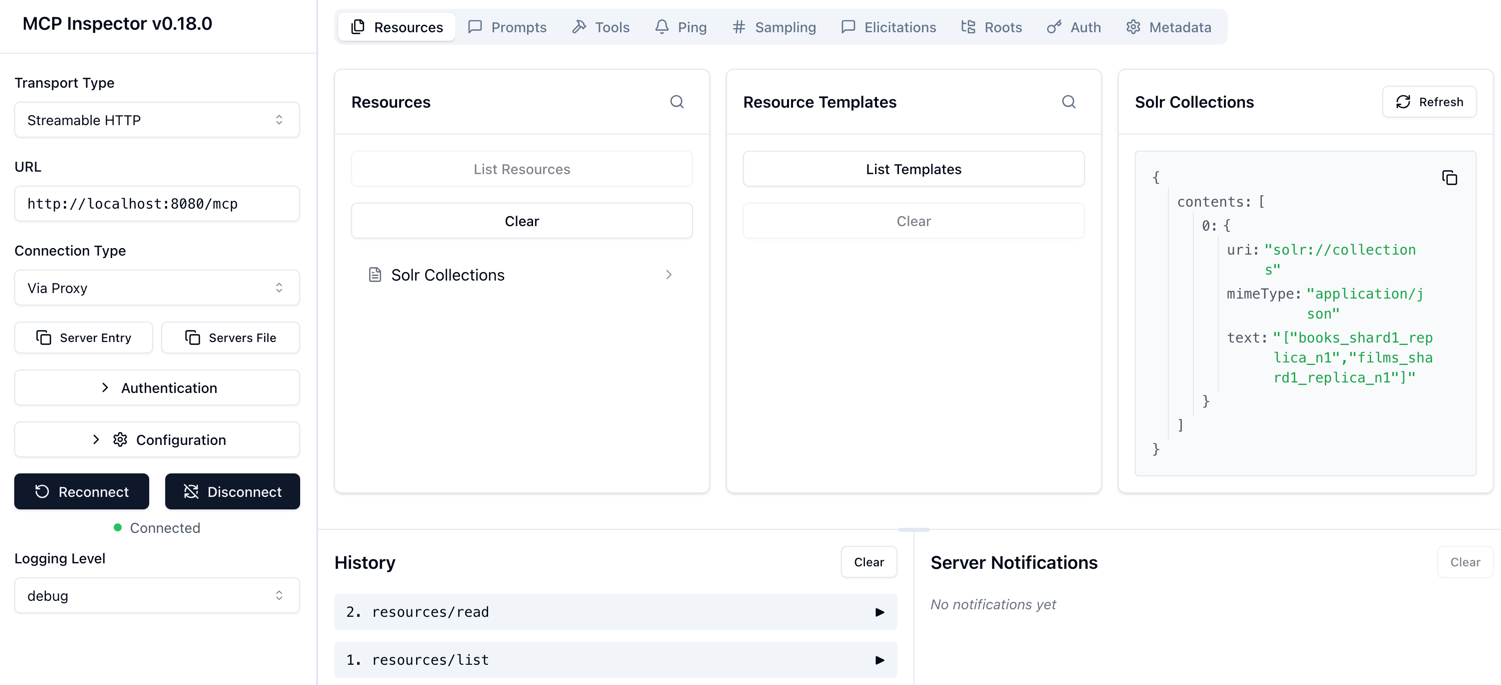
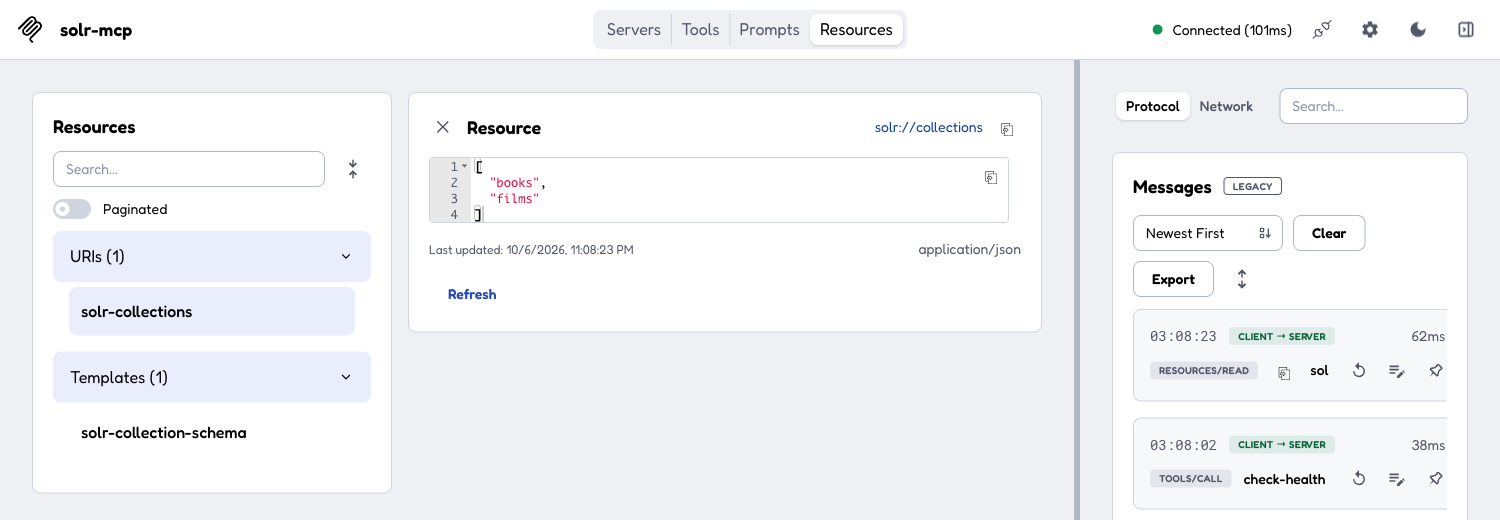
docs: refresh MCP Inspector screenshots and show them in the README
The screenshots in images/ predate the kebab-case tool rename and the
Inspector v2 UI, and none were referenced since the README was slimmed
in #151. Retake the six Inspector shots against the current server
(Inspector v2.9.0, films sample data, the repo's Keycloak realm), add
one showing where the bearer token goes, and embed them in a new
Screenshots section of the README.

diff --git a/README.md b/README.md
@@ -145,6 +145,45 @@ The server implements MCP argument autocompletion, so clients can suggest valid 
 
 Suggestions are matched case-insensitively by prefix and capped per request.
 
+## Screenshots
+
+**Claude Desktop (STDIO)** — answering a question about the `films` collection with the server's tools:
+
+![Claude Desktop calling Solr MCP tools over STDIO](images/claude-stdio.png)
+
+<details>
+<summary><b>MCP Inspector</b> — STDIO, HTTP, OAuth2, resources and completions</summary>
+
+**STDIO** — the Inspector launches the server with `java -jar`:
+
+![MCP Inspector connected to the server over STDIO](images/mcp-inspector-stdio.png)
+
+**HTTP** — `check-health` on `films` over Streamable HTTP at `http://localhost:8080/mcp`:
+
+![MCP Inspector calling check-health over HTTP](images/mcp-inspector-http.png)
+
+**HTTP with OAuth2** — the bearer token goes in the server's **Settings → Custom Headers**:
+
+![MCP Inspector custom Authorization header](images/mcp-inspector-http-oauth-headers.png)
+
+With a valid token, tool calls succeed:
+
+![MCP Inspector search succeeding with a bearer token](images/mcp-inspector-http-oauth-success.png)
+
+Without one, the client still connects and lists tools, but every tool call returns `Access Denied`:
+
+![MCP Inspector search denied without a bearer token](images/mcp-inspector-http-oauth-failure.png)
+
+**Resources** — reading `solr://collections`:
+
+![MCP Inspector reading the solr://collections resource](images/mcp-inspector-list-resources.png)
+
+**Completions** — the `{collection}` argument of `solr://{collection}/schema` completes to live collection names:
+
+![MCP Inspector completing the collection argument](images/mcp-inspector-resource-completion.png)
+
+</details>
+
 ## Configuration
 
 The server reads configuration from environment variables. The essentials:
